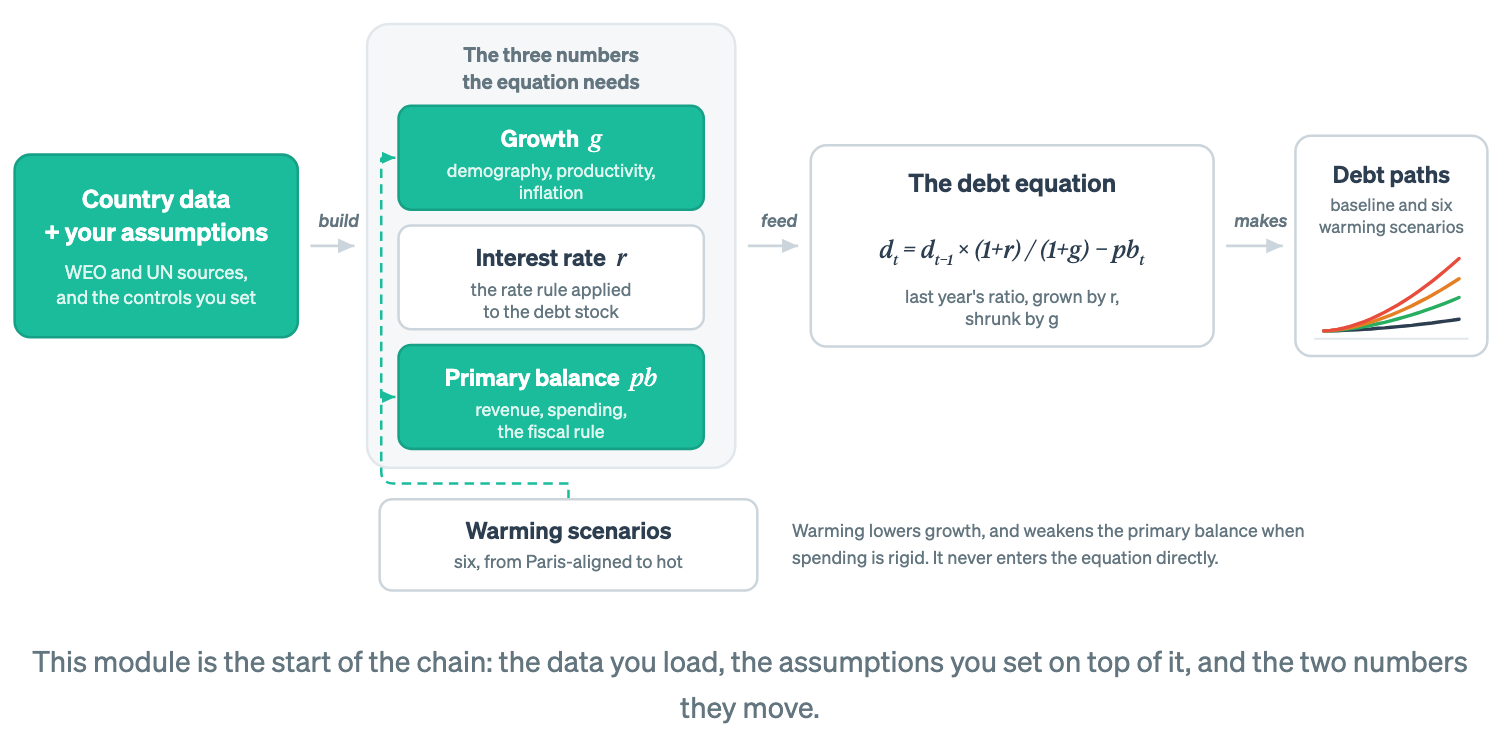
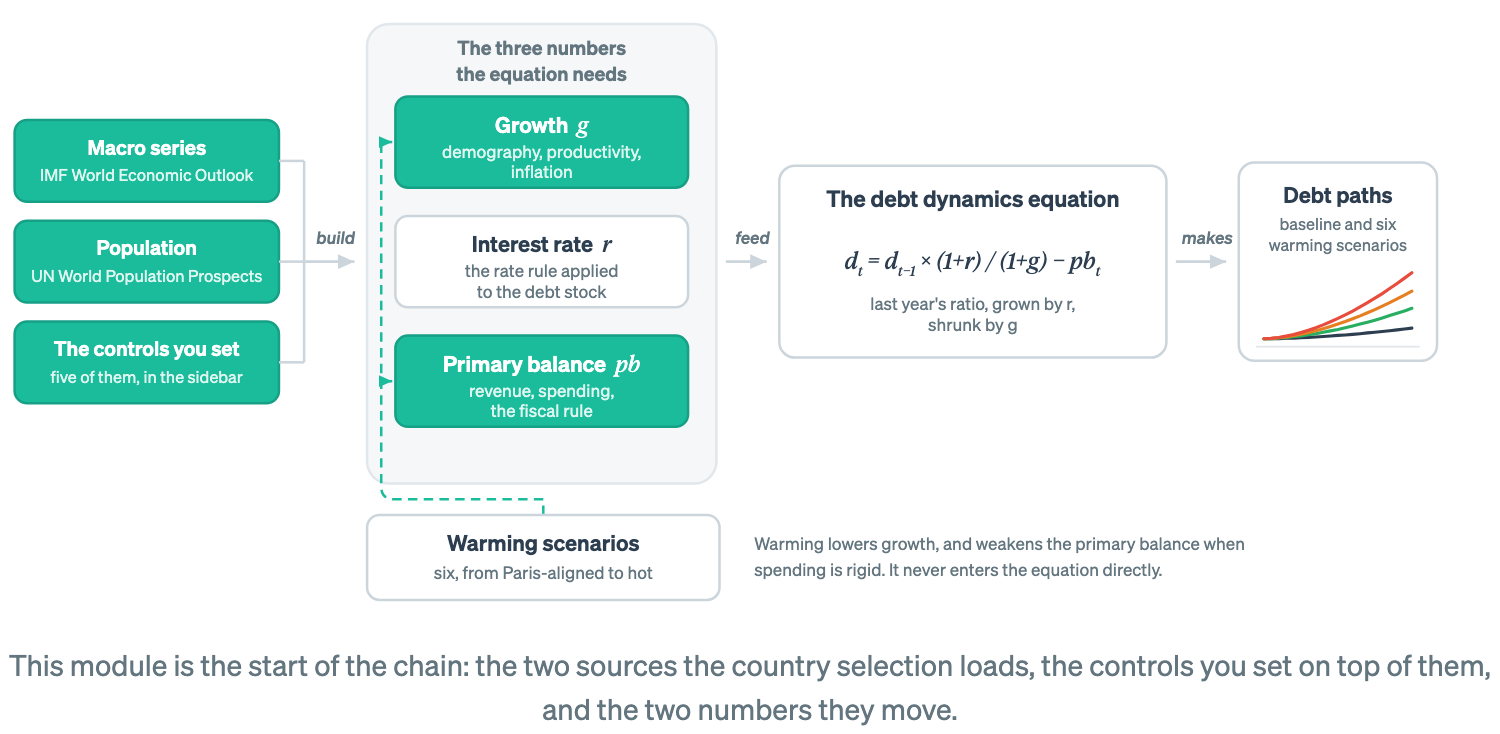
docs: run 5 morning report, the new figures per module first, then the preface diff
Lists the eleven exhibits with their screenshot paths, what each carries that
prose did not, and the three that vision QA sent back to be rebuilt: the debt
floor pair had the inversion backwards, the fan chart read its opening year as
the ceiling crossing, and the controls diagram was a wiring tangle.

Then the preface diff in full, the map v2 changes, the twelve places the
equation was renamed with the two deliberate non-changes, and the both-tools
note that arrived mid-run with the one part of its promise this course cannot
yet keep.

Changed region(s): [[0.0, 0.0601, 1.0, 0.8415], [0.0, 0.8716, 1.0, 0.9317], [0.368, 0.9617, 0.644, 0.9918]]

diff --git a/MORNING-REPORT.md b/MORNING-REPORT.md
@@ -4,6 +4,214 @@ Branch: `feat/lane4-course`. Nothing pushed, no remotes added. Run dates 2026-08
 
 Most recent run first.
 
+## Run 5: the map v2, the strengths-and-limitations pairing, and eleven new figures
+
+### Status
+
+Done. Both profiles render clean: `quarto render docs/companion-guide` exits 0 and `quarto render docs/companion-guide --profile brand` exits 0, neither with warnings or unresolved cross-references, and the default build references no Klim stylesheet. The committed PDF is rebuilt from the default render, 93 pages, up from 84 because of the figures. The banned-tics sweep across the eleven `.qmd` files reports zero em-dashes and zero semicolons, and the same sweep run over the text nodes and alt text inside all thirty SVGs reports zero. The skim skeleton still teaches each module's argument from headings and first sentences alone.
+
+Five commits, one per unit of work.
+
+**Marker counts.** DRAFT FOR TEAL is 26, up one, the new one being the kitchen analogy. TODO markers are 14, up three: the Excel half of the both-tools promise in M1, the two coexisting sets of Uganda numbers in M4, and nothing else new.
+
+| | DRAFT FOR TEAL | SCREENSHOT-TODO | WIDGET-TODO | TODO |
+|---|---|---|---|---|
+| M0 | 3 | 0 | 0 | 0 |
+| M1 | 2 | 1 | 1 | 1 |
+| M2 | 4 | 1 | 1 | 0 |
+| M3 | 5 | 1 | 1 | 0 |
+| M4 | 6 | 2 | 0 | 2 |
+| M5 | 4 | 0 | 0 | 1 |
+| M6 | 2 | 0 | 0 | 2 |
+
+---
+
+### 1. New figures, by module, with screenshot paths
+
+Eleven exhibits, built by `scripts/build_exhibits.py`, in the deck's design language on the course palette: tinted panels, ink banner headers, numbered circles, condensed caps labels. The open set has no condensed face, so the caps are Inter SemiBold with the tracking opened to 1.4, which is the same device in type the repository can actually ship.
+
+Every one was rendered through headless_shell on its own, looked at, and then rendered again inside the built page at reading width. Two screenshots per figure: the figure cropped to the element, and the section around it.
+
+| Module | Figure | What it carries that prose did not | Screenshots |
+|---|---|---|---|
+| **M0** | The three paths | Three routes over the same seven modules. Path B drops one, Path C drops one and abridges two, and every path ends at the same capstone. | `review-screenshots/m0-paths.png`, `m0-paths-in-page.png` |
+| **M1** | Zero to a projection | The ten-minute run as five places you look, two moves in the sidebar and one in each tab, with the file you keep at the end. | `m1-ten-minutes.png`, `m1-ten-minutes-in-page.png` |
+| **M1** | The parity check | The pipeline, and underneath it the two claims drawn to their own reach, so the baseline bar is full and the climate bar is not. Replaces the Mermaid diagram. | `m1-parity.png`, `m1-parity-in-page.png` |
+| **M2** | The equation, term by term | The Riffle pattern from the Explainer Toolkit: each term tinted, one plain English phrase per term, and only the last one a decision. | `m2-equation-annotated.png`, `m2-equation-annotated-in-page.png` |
+| **M2** | The scoreboard, ten years | The equation iterated ten times at three r-g pairs with the primary balance nailed to zero. 66.1, 50.0, 37.8, from arithmetic alone. | `m2-scoreboard.png`, `m2-scoreboard-in-page.png` |
+| **M3** | Five controls, three destinations | Every control wired to the number it moves, and the one destination nothing reaches. | `m3-controls.png`, `m3-controls-in-page.png` |
+| **M4** | The gate | The seven steps with the sanity check drawn across the middle rather than beside them, its five boxes visible. | `m4-seven-steps.png`, `m4-seven-steps-in-page.png` |
+| **M4** | Three readings of a fan chart | A real fan with the gap bracketed, the ceiling crossing marked at the year the series actually crosses, and the flat stretch to 2030 called out. | `m4-fan-readings.png`, `m4-fan-readings-in-page.png` |
+| **M5** | One channel in, six out | The modelled chain across the top, the six exclusions below with their User Guide pages, and the shared direction along the bottom. | `m5-exclusions.png`, `m5-exclusions-in-page.png` |
+| **M5** | The debt floor | Two panels, the chart as it reads and the chart as it is, so the inversion is visible instead of described. | `m5-debt-floor.png`, `m5-debt-floor-in-page.png` |
+| **M6** | The packet and the rubric | Three parts to hand in, beside a weight bar where the first sixty percent is settled before anyone reads a number. | `m6-packet.png`, `m6-packet-in-page.png` |
+
+**Two are drawn from data in the repository rather than asserted.** `m2-scoreboard` iterates the debt dynamics equation itself. `m4-fan-readings` reads the golden-master Uganda run under `packages/qcraft-engine/tests/golden_masters/intermediate/` and finds the ceiling crossing in the series.
+
+**What the vision QA caught, and what it changed.** Three figures were wrong on the first render and were rebuilt, not nudged.
+
+**The debt floor pair had the inversion drawn backwards.** I had the climate line diving further below zero than the baseline, which makes the two panels identical and kills the point. The baseline is the line that goes furthest negative, because it takes no climate damage. Clipping it at zero is what lifts it above the climate scenarios and inverts the picture. Redrawn.
+
+**The fan chart reported the ceiling crossing as 2023.** The series opens at 51.0 percent of GDP on WEO history, above the 50 percent ceiling, and falls back under it within a few years. A naive first-year-above-fifty scan returns the opening year. The crossing that means anything is the upward one after the damage starts, which is 2068.
+
+**The controls diagram was a wiring tangle.** Six routes crossing three buses, a dashed line for the second demography channel, and a grey line wandering across the figure from a defaults panel. Cut to one trunk per destination, the second demography channel stated in the chip's own subtitle rather than drawn, and the defaults stated in a strip rather than wired.
+
+Smaller fixes: eight figures had a source line longer than the 680 unit column, so `frame()` now takes one or two footer lines. Six had collisions between the last element and the footer. The M6 rubric bar was reordered so the two criteria the sixty percent rule refers to sit next to each other.
+
+**Every figure has a sneak-preview sentence before it and a read-out sentence after it.** The first drafts of the captions repeated the read-out almost verbatim, which the in-page shots made obvious, so all eleven captions were rewritten to add something the read-out does not. The seven course maps gained the preview sentence they were missing, and two of the M3 source figures gained a read-out.
+
+**One figure I did not build.** A which-tool-when decision diagram for M5. The existing Q-CRAFT against LIC-DSF table already carries a comparison across six dimensions and a diagram would have restated it with less room. Per your rule, no figure that carries no message.
+
+---
+
+### 2. The preface diff
+
+Three changes. The full diff against the run 4 state is below.
+
+**The honest-broker paragraph is now a pairing.** The practitioners-disagree framing is gone from the preface entirely, and the section heading changed from the label "Where this course stands" to the claim "The tool is broadly applicable and deliberately conservative." Strengths are broad applicability, no bespoke country data, and verification against the original with the parity wording exactly as the shared notes bind it. Limitations are the single modelled channel against the six exclusions, with nonlinearities and country-specific channels named as you specified, citing the User Guide at pp. 5-6 as before. The closing sentence ties them: a tool that runs anywhere on published data cannot carry the channel only your country has.
+
+**The independence statement is a callout under the first section**, where the reader first meets the Explorer, in the repo README's own words. Echoed in the appendix with one sentence added, that nothing in the co-design pitch should be read as criticism of a tool the Fiscal Affairs Department built and made available to everyone.
+
+**"What this course defers to" now names the training materials as well as the User Guide** and says plainly which one wins when they differ.
+
+**M5 leads with the same pairing** in a single breath before its fuller treatment, and its "some practitioners judge" paragraph was recast to lead with the substance instead: the estimates are fitted to the temperature range the world has already lived through, so nonlinearities beyond that range sit outside the estimate rather than being judged small.
+
+```diff
+diff --git a/docs/companion-guide/index.qmd b/docs/companion-guide/index.qmd
+index 76f4888..a1e6d9e 100644
+--- a/docs/companion-guide/index.qmd
++++ b/docs/companion-guide/index.qmd
+@@ -8,6 +8,11 @@ The Fiscal Affairs Department built it for its own climate technical assistance,
+ 
+ This course teaches the tool through **Q-CRAFT Explorer**, an open-source Python reimplementation of the IMF's Excel workbook. Teal Insights and NatureFinance develop it and the code is MIT licensed. The economics is the IMF's. The web interface, the automatic data loading and the record of what you assumed are ours.
+ 
++::: {.callout-note}
++## This is not an IMF product
++Q-CRAFT Explorer and this course are an independent project by [Teal Insights](https://tealinsights.com) and [NatureFinance](https://naturefinance.net). Neither is an official IMF product and neither carries IMF endorsement. Both are meant to be complementary to the IMF's own training materials and to the Q-CRAFT User Guide (Tim and Rahman, 2024), which remain the authoritative references. Where this guide explains a concept it cites the User Guide section behind it, so you can always check the teaching against the source.
++:::
++
+ ## The questions it answers
+ 
+ Q-CRAFT answers a narrow set of questions, and it answers each one by comparing two runs of the same model. Four of them, in the register they usually arrive in:
+@@ -23,13 +28,15 @@ None of those is a forecast. Each one is a difference between two projections bu
+ 
+ This course is for anyone who has to run, interact with, or otherwise understand this class of fiscal projection tool. Ministry of finance economists come first, because they run the tool and then defend the numbers to the officials who sign them off. IFI and technical assistance staff come second, because they build capacity around tools like this one and a teaching sequence is easier to hand over than a workshop. Researchers and analysts come third, because they read the output and have to decide what it licenses them to say.
+ 
+-## Where this course stands
++## The tool is broadly applicable and deliberately conservative
++
++This guide teaches what the tool does, why it exists, and what it leaves out. The third part belongs with the first two, and the honest way to hold it is as a pairing.
+ 
+-This guide teaches what the tool does, why it exists, and what it leaves out. The third part belongs with the first two.
++**The strengths.** Q-CRAFT runs for most of the world, on data that is already published. It needs no bespoke country dataset, no new survey and no waiting for a mission, so a team can have a first pass by the end of the week. And the arithmetic is open to inspection. This reimplementation is verified against the IMF's original workbook, with baseline parity exact for 147 of 147 tested countries and climate-scenario parity confirmed for ratio metrics. @sec-m1 sets out what that claim covers and what it does not.
+ 
+-Practitioners disagree about Q-CRAFT, and some judge its damage estimates conservative. The tool's own documentation gives them their grounds. The scenarios model the slow effect of temperature on productivity, and they exclude natural disasters, sea-level rise, tipping points and the public spending that adaptation takes (User Guide, pp. 5-6). Under those channels the projected fiscal impact reads as a lower bound rather than as a central estimate of total impact. @sec-m5 sets this out with the sources.
++**The limitations.** The scenarios capture one channel, the slow effect of temperature on productivity. They exclude tipping points, nonlinearities, natural disasters, sea-level rise, the public spending that adaptation takes, and whatever channel is specific to your own country (User Guide, pp. 5-6). Every one of those exclusions is a cost left out, so the results read conservative: a lower bound on fiscal impact rather than a central estimate of the total. @sec-m5 sets this out with the sources.
+ 
+-Knowing a model's limits is part of knowing the model. This is the first in a series of guides to the models behind sovereign climate-fiscal analysis, and each one takes the same three questions: what the model is for, what it computes, and where it stops.
++The two halves are one design choice seen from two sides. A tool that runs anywhere on published data is a tool that cannot carry the channel only your country has. Knowing that is part of knowing the model. This is the first in a series of guides to the models behind sovereign climate-fiscal analysis, and each one takes the same three questions: what the model is for, what it computes, and where it stops.
+ 
+ ## What you will be able to do
+ 
+@@ -49,7 +56,7 @@ Seven modules, each built around something you can do at the end of it.
+ |---|---|
+ | **[0. How to use this course](m0-start-here.qmd)** | The capstone stated up front, a self-assessment, and the path that fits your background |
+ | **[1. What Q-CRAFT does and why it exists](m1-how-qcraft-thinks.qmd)** | A full projection in ten minutes, and the map: three numbers, one equation |
+-| **[2. The debt equation](m2-debt-equation.qmd)** | The debt identity rebuilt from words. Skippable if you use it already. |
++| **[2. The debt dynamics equation](m2-debt-equation.qmd)** | The identity rebuilt from ordinary words. Skippable if you use it already. |
+ | **[3. Choosing the parameters](m3-parameters.qmd)** | Every parameter set and defended, with the rationale written down |
+ | **[4. A worked example, end to end](m4-worked-example.qmd)** | One country from assumptions to a fiscal risk paragraph, then two more with less help |
+ | **[5. What the tool can and cannot tell you](m5-boundaries.qmd)** | The strengths, the documented exclusions, and which questions belong to a different tool |
+@@ -65,7 +72,7 @@ There is also an [appendix on co-design and the SovTech vision](appendix-codesig
+ 
+ ## What this course defers to
+ 
+-This is an educational companion to the IMF's User Guide (Tim and Rahman, 2024), which remains the authoritative methodology reference. Where this guide explains a concept, it cites the relevant User Guide section so you can go deeper.
++This is an educational companion to the IMF's User Guide (Tim and Rahman, 2024), which remains the authoritative methodology reference, and to the IMF's own training materials, which remain the authoritative teaching materials. Where this guide explains a concept, it cites the relevant User Guide section so you can go deeper. Where the two ever differ, the User Guide is right.
+ 
+ ::: {.callout-note}
+ ## This is an initial version
+```
+
+---
+
+### 3. Course map v2
+
+**The first node decomposed.** Three compact boxes, each naming its source: macro series from the IMF World Economic Outlook, population from the UN World Population Prospects, and the controls you set. They converge on one bus and feed the three-numbers group with the verb "build". In the tall print layout they run across the top row and converge on a spine.
+
+**Every box a notch smaller.** The pills drop from 194x66 to 186x58, the equation node from 256x128 to 246x122, the paths node from 122x140 to 126x126, and the type with them. The chain has air in it now.
+
+**The equation node is "The debt dynamics equation"**, and the name is adopted course-wide.
+
+**M3's lit set changed with the decomposition.** It now lights all three ingredient boxes plus growth and the primary balance, because the country selection loads two of the ingredients and the sidebar is the third.
+
+The tall layout needed one fix after the first render: the "manufactured into" verb sat under the warming-scenarios box, so `v_arrow` gained a side argument and the verb moved left of the spine.
+
+---
+
+### 4. The equation, renamed course-wide
+
+Twelve places, all of them namings rather than back-references:
+
+| File | Was | Now |
+|---|---|---|
+| `index.qmd` | "2. The debt equation", "The debt identity rebuilt from words" | "2. The debt dynamics equation", "The identity rebuilt from ordinary words" |
+| `m0-start-here.qmd` | "from the debt identity" | "from the debt dynamics equation" |
+| `m1-how-qcraft-thinks.qmd` | "the three numbers the debt equation needs" | "the debt dynamics equation needs" |
+| `m2-debt-equation.qmd` | chapter title, three body namings, one callout title | all "the debt dynamics equation" |
+| `m4-worked-example.qmd` | "the debt equation", "the debt accumulation equation" | both renamed |
+| `m5-boundaries.qmd` | "a standard debt equation", "the same debt equation" | both renamed |
+
+Plus the diagram node label, all seven diagram captions and all seven alt texts, which the build script generates.
+
+**Two deliberate non-changes.** Bare anaphoric "the equation", where the thing has already been named in the same passage, is left alone: it is a reference, not a name. And the filename `m2-debt-equation.qmd` is unchanged, because the slug is not reader-facing the way M4's Uganda slug was, and renaming it would churn every link for no gain. Say if you want it moved.
+
+---
+
+### 5. The both-tools note, which arrived mid-run
+
+The shared reference notes gained a binding note during this run: the argument card for teaching Q-CRAFT in both the IMF's Excel workbook and the Explorer, with zero disparagement of Excel anywhere and exactly four reasons for the Explorer. It is not in your five directives, so flag if you would rather I had left it.
+
+**What it broke, and what I did.** M1's section was titled "The Excel workbook calculates well and forgets everything" and the prose under it said the trouble starts after the file is saved, that the next analyst cannot tell a decision from a default, and that the cost lands in capacity development budgets. That is Excel framed as the problem, in the heading, on the page a reader meets second. Rebuilt as "Q-CRAFT runs in a published Excel workbook, and in this Explorer": the workbook is a deliberate and sound decision, every ministry has Excel, staff know it, and a Fund tool has to run in nearly two hundred countries without assuming infrastructure. Then the four reasons, named and no others: data currency, guidance where you need it, fewer steps to the analysis, the export packet. The word "toil" appears nowhere in the course.
+
+**One thing I could not do honestly.** The card's promise is that we teach running Q-CRAFT both ways. This course teaches the Explorer only, and there is no Excel walkthrough to point at. Writing the promise into the prose would have been a claim the artifact does not keep, so the section states what is true and a TODO names exactly what is missing: where to download the workbook, how its sheets map onto the three numbers, and how to run the M4 worked case there. **Scope call for you:** that is a substantial addition to a course already at 93 pages, and it is the sort of thing that wants its own module rather than a paragraph.
+
+The vignette about the analyst who cannot tell a decision from a default moved out of M1, since it was the disparagement, and M3 keeps its own version of it, where it argues for the record rather than against a file format. M3's back-reference to "the vignette from @sec-m1" was retired with it.
+
+---
+
+### 6. The kitchen analogy, DRAFT FOR TEAL
+
+In M1, after "everything else the tool does is manufacturing g, r and pb", marked optional and skippable. The pantry holds ingredients somebody else bought, the WEO and UN series. The seasoning is yours, the sidebar controls. Three components are prepared before anything else, g, r and pb. There is one recipe, the debt dynamics equation, and it never changes.
+
+**The break-point is stated, per the Explainer Toolkit rule**, and it is two things. A cook tastes and adjusts, and this model does not, which is the partial-equilibrium limit stated two paragraphs above it. And a recipe is a claim about what will come out of the oven, where a projection to 2099 is a comparison between two dishes made from deliberately different seasoning.
+
+Cut it if it reads twee. Nothing depends on it.
+
+---
+
+### 7. Two things worth your eye
+
+**The M4 numbers now disagree with themselves, on purpose.** The new fan chart is the Explorer's own golden-master run on WEO October 2024 at tool defaults: baseline 47, Hot Unadapted 127, a gap of 80 points, ceiling crossed in 2068. The prose in the same module quotes the published 2023 workshop: baseline 47.5, Hot 66, a gap of 18.5. Both are right for what they are, and the whole of the difference is vintage and parameter choice, which is the point M1 already makes about why the export packet exists. I have marked it with a TODO rather than resolving it, because which set leads is an editorial call. The figure's caption states the discrepancy and its cause, so a reader who only looks at the picture is not misled.
+
+**The M6 rubric weights are now in a figure.** They come from a DRAFT FOR TEAL callout, so the figure's source line says they are a proposal rather than a decision, and the bar was reordered so assumptions and baseline sit adjacent and the sixty percent underline is honest. If the weights change, the figure changes with them: it is generated, not drawn.
+
+---
+
+### 8. Commits
+
+```
+b3fae01 docs(guide): course map v2, sourced ingredients, and the debt dynamics equation named course-wide
+39d87c7 docs(guide): strengths and limitations as a pairing, and this is not an IMF product
+3e4ea91 docs(guide): eleven module exhibits, in the deck's design language on the open faces
+ad7e62f docs(guide): the visual pass lands in the prose, plus the both-tools recast and the analogy
+```
+
+Nothing pushed, no remotes added.
+
+---
+
+
 ## Run 4: the titles, the course map, the preface, the honest broker, and M3's source figures
 
 ### Status
